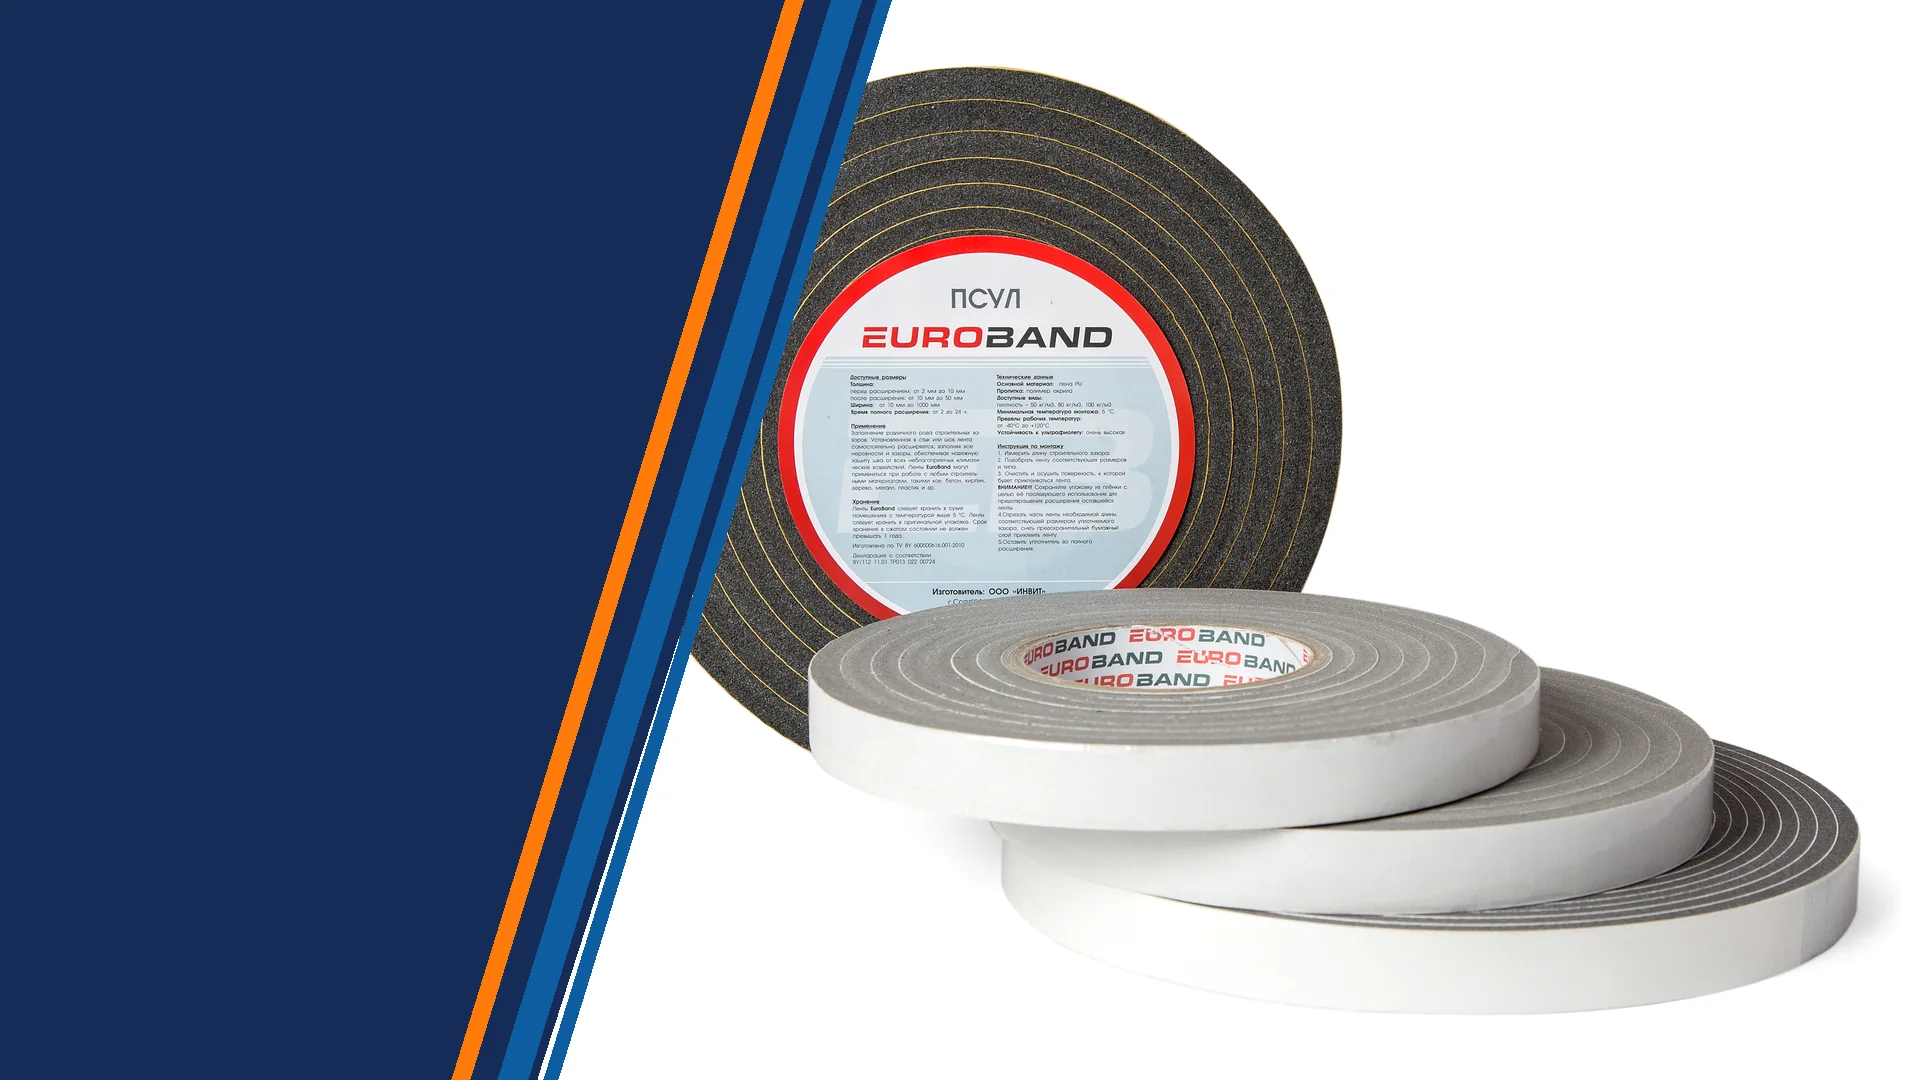
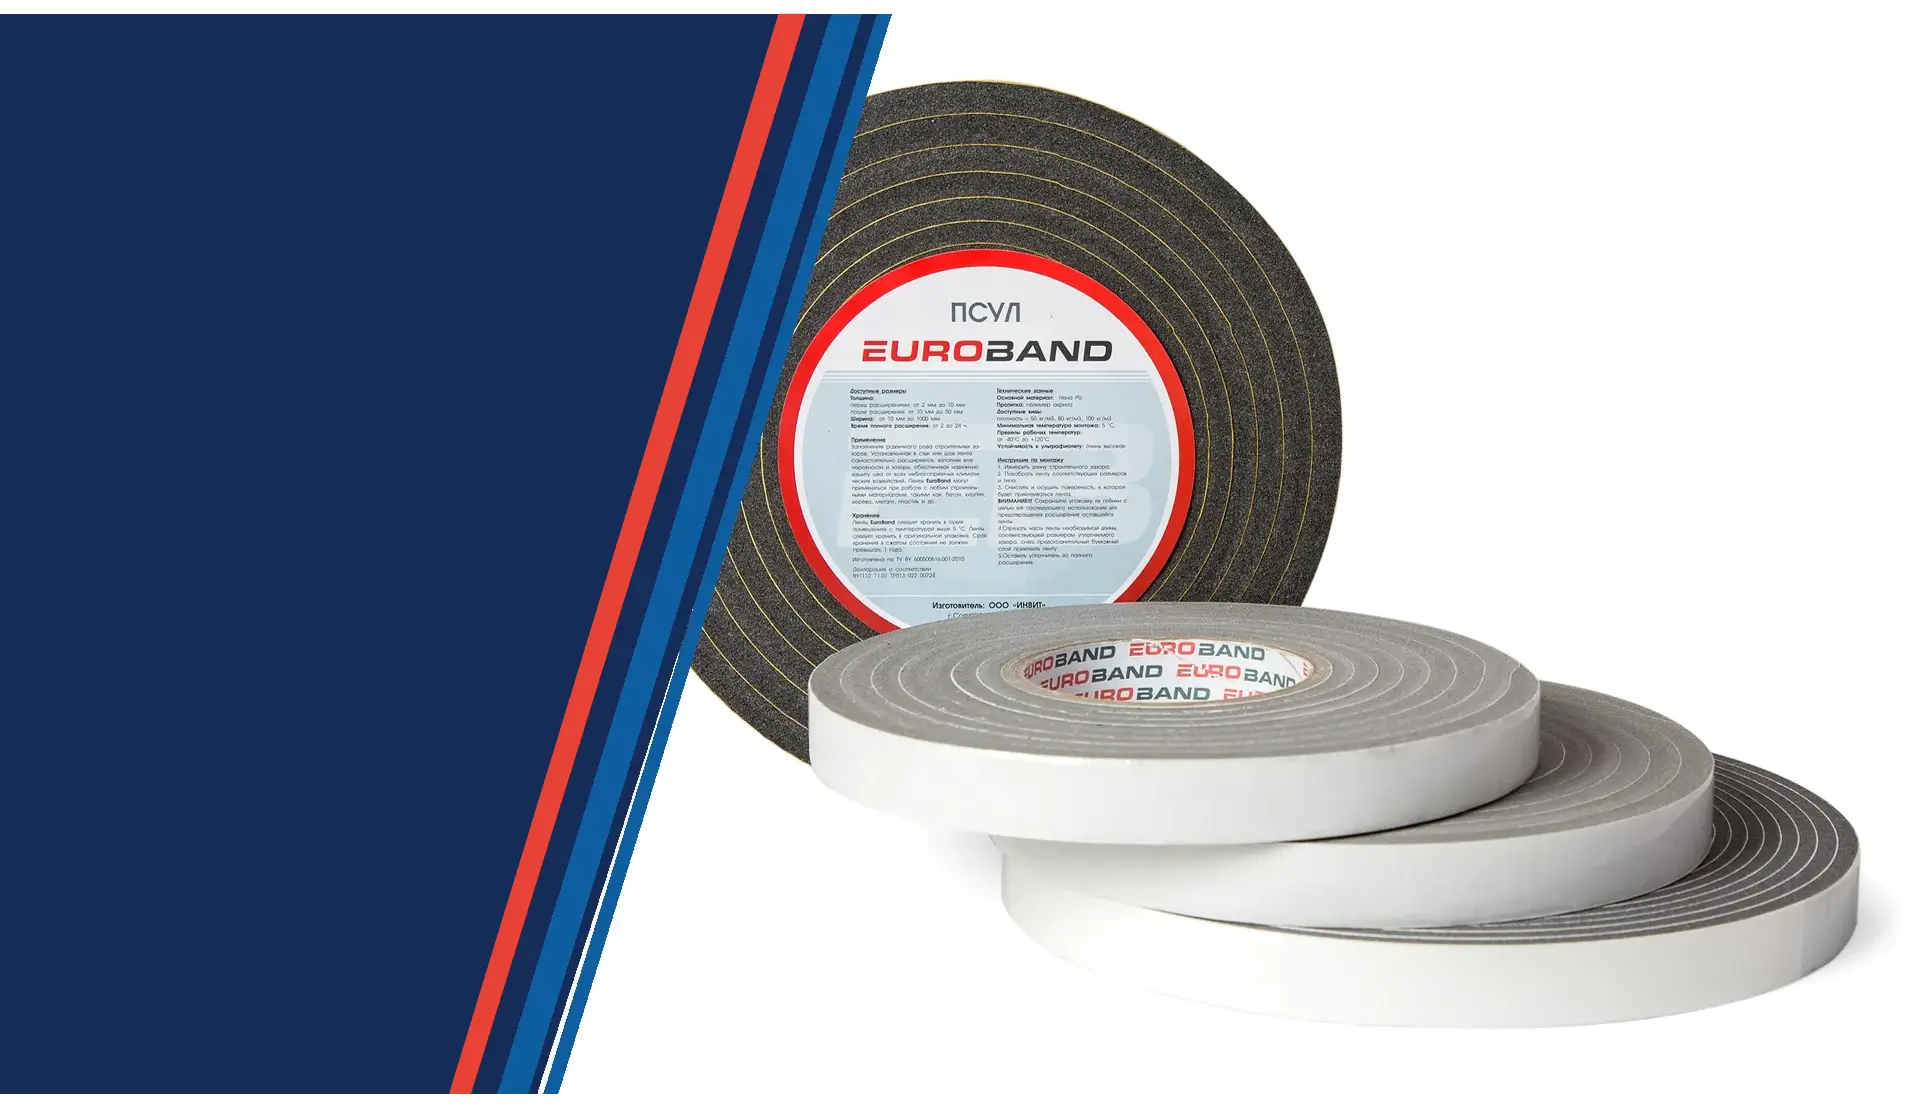
Новые баннеры слайдера от клиента
Шесть кадров в src/assets/hero заменены присланными файлами — та же подача
(тёмная панель слева под текст, косые полосы, снимок справа), 1920x1108.

Скрипт make-hero-banner.py больше не перерисовывает баннеры поверх готовых:
теперь их рисует клиент, а скрипт пропускает существующие файлы. Перерисовать
из съёмки по-прежнему можно — ключом --force.

Два снимка при замене пропали, и без них не собиралась сборка. Оба — фоны под
затемнением, а не кадры слайдера:
  * euroband-rolls-photo.webp — крупная ячейка в мозаике разделов на /v2,
    собран заново из той же съёмки (_S4A8910);
  * tape-application.webp — фон блока «запросить расчёт» на главной. Это был
    последний сток на сайте, поэтому вместо него встало макро лент клиента
    (DSC01869) под именем pes-rolls-macro.webp. Качество 62 против обычных 84:
    снимок лежит во всю ширину под затемнением, деталей там не видно, а весил
    бы он как весь слайдер.

diff --git a/src/components/home/ContactBanner.tsx b/src/components/home/ContactBanner.tsx
@@ -2,7 +2,7 @@ import React from 'react';
 import { Phone, Mail, MapPin } from 'lucide-react';
 import { Reveal } from '../Reveal';
 import { RequestForm } from '../home-v2/RequestForm';
-import tapeApplication from '../../assets/hero/tape-application.webp';
+import pesRollsMacro from '../../assets/hero/pes-rolls-macro.webp';
 
 /*
  * Раньше здесь было широкое фото на всю ширину с тёмной карточкой поверх,
@@ -13,7 +13,7 @@ import tapeApplication from '../../assets/hero/tape-application.webp';
 export const ContactBanner: React.FC = () => (
   <section className="relative bg-ink overflow-hidden">
     <img
-      src={tapeApplication}
+      src={pesRollsMacro}
       alt=""
       aria-hidden="true"
       loading="lazy"

diff --git a/scripts/make-hero-banner.py b/scripts/make-hero-banner.py
@@ -40,10 +40,13 @@ BANNERS = [
     ('_S4A8904.jpg', 'psul-euroband.webp'),       # «Саморасширяющаяся лента ПСУЛ»
 ]
 
-# Снимки без фирменной подачи: в мозаике разделов на /v2 фото лежит под
-# затемнением и своим заголовком, косая граница там была бы лишней деталью.
+# Снимки без фирменной подачи: они лежат фоном под затемнением и своим
+# заголовком, косая граница там была бы лишней деталью.
 PLAIN = [
-    ('_S4A8910.jpg', 'euroband-rolls-photo.webp'),
+    ('_S4A8910.jpg', 'euroband-rolls-photo.webp', 84),   # мозаика разделов на /v2
+    # Макро лент: лежит фоном под затемнением во всю ширину, детали не видны,
+    # поэтому качество ниже — иначе один снимок весит как весь слайдер.
+    ('DSC01869.jpg', 'pes-rolls-macro.webp', 62),        # блок «запросить расчёт»
 ]
 
 
@@ -89,27 +92,35 @@ def build(source, target):
     return (OUT / target).stat().st_size // 1024
 
 
-def plain(source, target, width=1600):
-    """Снимок как есть, только уменьшенный: для мозаики и карточек."""
+def plain(source, target, width=1600, quality=84):
+    """Снимок как есть, только уменьшенный: для мозаики и фоновых блоков."""
     with Image.open(PHOTOS / source) as raw:
         photo = raw.convert('RGB')
         height = round(photo.height * width / photo.width)
         photo.resize((width, height), Image.LANCZOS).save(
-            OUT / target, 'WEBP', quality=84, method=6)
+            OUT / target, 'WEBP', quality=quality, method=6)
     return (OUT / target).stat().st_size // 1024
 
 
 def main():
+    # Баннеры слайдера клиент рисует сам и кладёт в src/assets/hero под теми же
+    # именами. Поэтому по умолчанию готовые файлы не трогаем — перерисовать их
+    # из съёмки можно ключом --force.
+    force = '--force' in sys.argv
+
     for source, target in BANNERS:
+        if (OUT / target).exists() and not force:
+            print(f'{target}: уже есть, пропускаю (--force перерисует)')
+            continue
         if not (PHOTOS / source).exists():
             print(f'нет снимка: {source}')
             continue
         print(f'{target}: {W}x{H}  {build(source, target)} КБ')
-    for source, target in PLAIN:
+    for source, target, quality in PLAIN:
         if not (PHOTOS / source).exists():
             print(f'нет снимка: {source}')
             continue
-        print(f'{target}: без подачи, {plain(source, target)} КБ')
+        print(f'{target}: без подачи, {plain(source, target, quality=quality)} КБ')
     return 0
 
 
